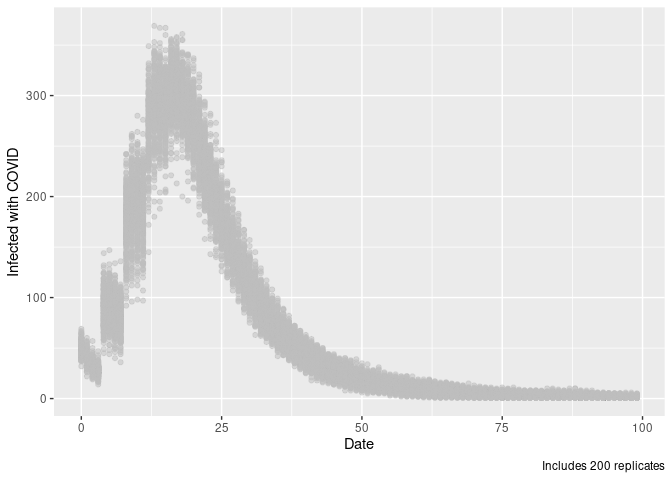
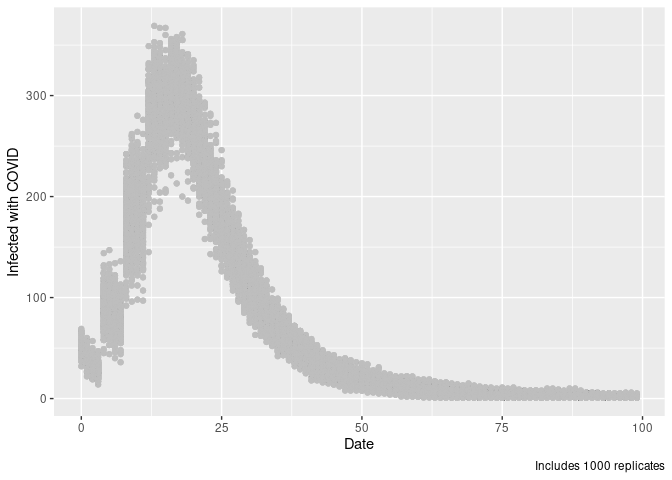
Updating readme and dealing with symlinks

diff --git a/rpackage/README.md b/rpackage/README.md
@@ -107,10 +107,13 @@ Can run multiple times:
 ``` r
 verbose_off_epi_model(m)
 
-ans <- lapply(1:200, function(i) {
+ans <- parallel::mclapply(1:1000, function(i) {
+  
+  # Running and resetting the model
   reset_epi_model(m)
   run_epi_model(m)
-  message(".", appendLF = FALSE)
+  
+  # Retrieving the model information
   data.frame(
     replicate  = i,
     date       = get_hist_variant(m, "date"),
@@ -120,8 +123,7 @@ ans <- lapply(1:200, function(i) {
     ndeceased  = get_hist_variant(m, "ndeceased")
   )
   
-})
-#> ........................................................................................................................................................................................................
+}, mc.cores = 6L)
 
 ans <- do.call(rbind, ans)
 ```
@@ -132,10 +134,9 @@ Visualizing
 library(ggplot2)
 ggplot(ans[ans$id == 0,], aes(x = as.integer(date), y = ninfected)) +
   geom_point(alpha = .5, color = "grey") +
-  # geom_point(alpha = .5, color = "red", aes(y = ndeceased)) +
   labs(
     x = "Date", y = "Infected with COVID",
-    caption = "Includes 200 replicates")
+    caption = "Includes 1000 replicates")
 ```
 
 <img src="man/figures/README-unnamed-chunk-3-1.png" width="100%" />
